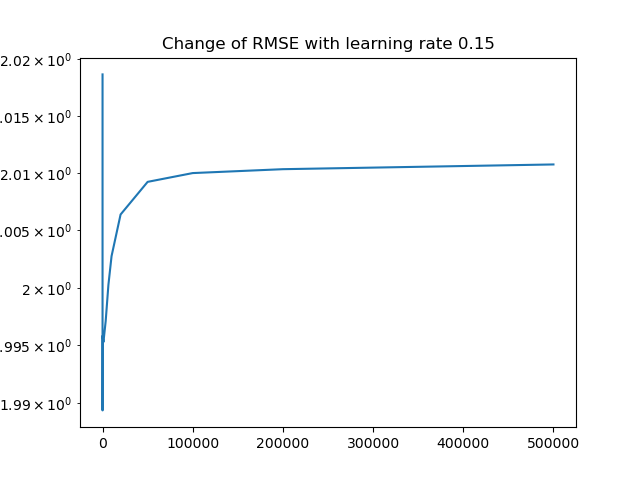
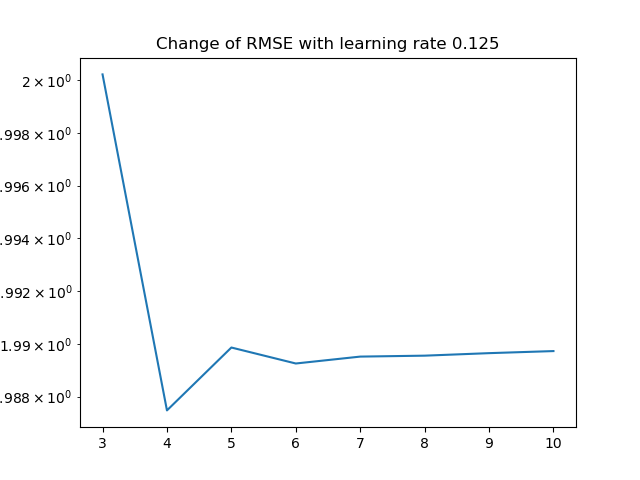
Did many and a lot of things

diff --git a/Task 1B/Chris/sol_chris.py b/Task 1B/Chris/sol_chris.py
@@ -74,8 +74,8 @@ def fit(X, y):
     X_train, X_test, y_train, y_test = train_test_split(X_transformed, y, test_size=0.2, random_state=13)
 
 
-    ITERATIONS = [5, 10, 15, 20, 100, 1000, 3500, 6500, 10000, 20000, 50000, 100000, 200000, 500000]
-    LEARNING_RATES = [0.15, 0.125, 0.1, 0.09, 0.07, 0.05, 0.025]#, 0.01, 0.005, 0.001, 0.0005, 0.0001, 0.00001, 0.000001
+    ITERATIONS = [3, 4, 5, 6, 7, 8, 9, 10]# 100, 1000, 3500, 6500, 10000, 20000, 50000, 100000, 200000, 500000]
+    LEARNING_RATES = [0.125, 0.13, 0.133, 0.136, 0.139]
     #ITERATIONS = [5, 10, 15, 20, 50, 100, 150,200, 300, 500, 700, 850, 1000]
     #LEARNING_RATES = [0.15, 0.125, 0.1]
 
@@ -94,7 +94,7 @@ def fit(X, y):
         currRate += 1
     saveManyPlots(RMSE_mat, ITERATIONS, LEARNING_RATES)
 
-    w = myLinearRegression(X_train, y_train, 0.1, 200)
+    w = myLinearRegression(X_train, y_train, 0.133, 4)
     #savePlot(ITERATIONS, cost_list)
     assert w.shape == (21,)
     return w
@@ -113,8 +113,7 @@ def myLinearRegression(X, y, learning_rate, iterations):
 
         cost = (1/(2*m)) * np.sum(np.square(y_pred - y))
 
-        d_weights = (1/m) * np.dot(X.T, (y_pred - y.T))
-        uhm = (y - y_pred)
+        d_weights = (1/m) * np.dot(X.T, (y_pred - y))
         weights = weights - learning_rate * d_weights
         #cost_list.append(cost)
 
@@ -132,7 +131,7 @@ def savePlot(iterations, cost_list):
 
 def saveManyPlots(RMSE_mat, ITERATIONS, LEARNING_RATES):
     for r in range(len(LEARNING_RATES)):
-        plt.clf()
+        #plt.clf()
         plt.yscale("log")
         plt.plot(ITERATIONS, RMSE_mat[r,:])
         plt.title(("Change of RMSE with learning rate " + str(LEARNING_RATES[r])))
